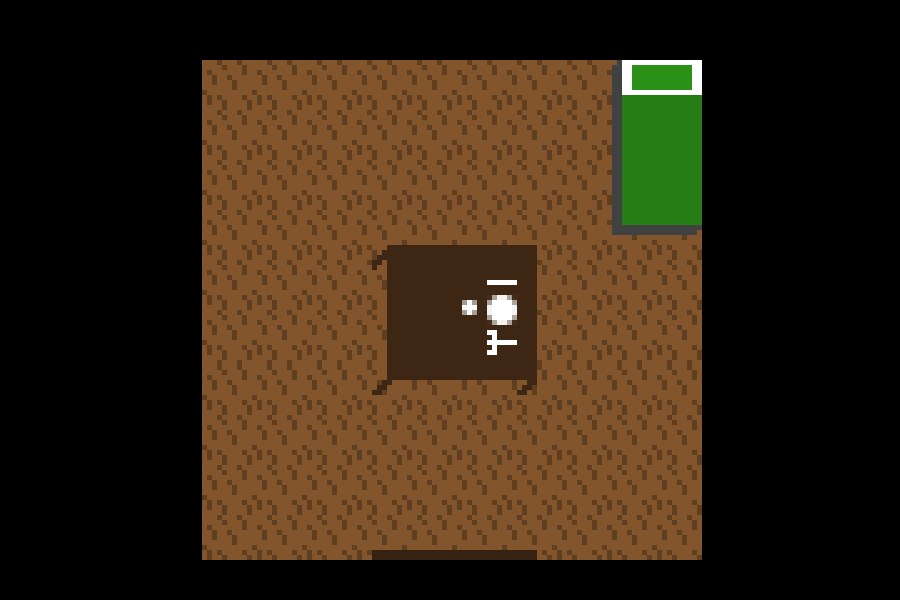
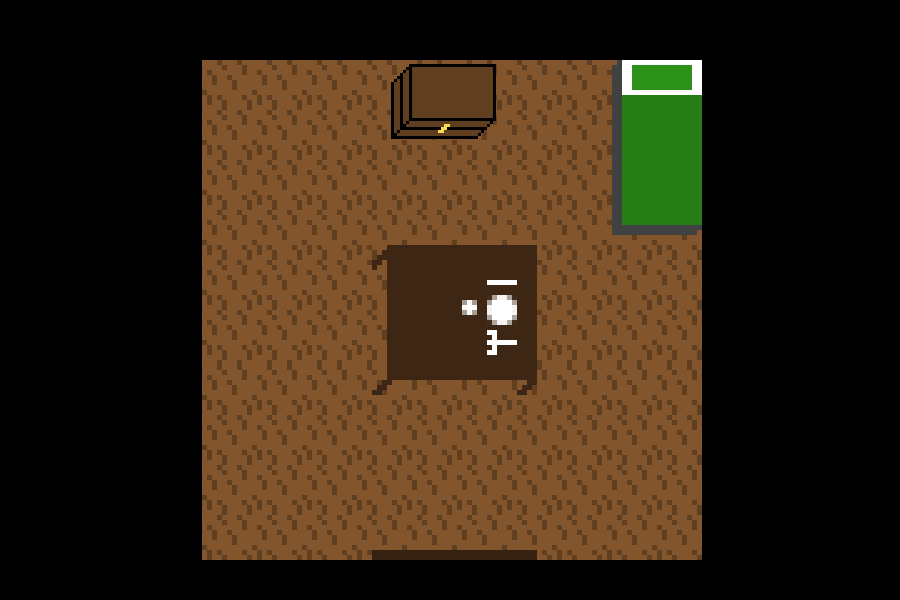
add of the chest in the map

Changed region(s): [[0.4356, 0.09, 0.56, 0.24]]

diff --git a/Code/map/map.py b/Code/map/map.py
@@ -80,17 +80,19 @@ class Bedroom() :
     def _create_map(self):
         table = pygame.transform.scale(self.object.invisible_wall, (130,135))
         bed = pygame.transform.scale(self.object.invisible_wall, (80,165))
+        chest = pygame.transform.scale(self.object.invisible_wall, (80,75))
         top_bordure = pygame.transform.scale(self.object.invisible_wall, (500,1))
         side_bordure = pygame.transform.scale(self.object.invisible_wall, (1,500))
         self.tile._add_solid_walls('table', 395, 235, table)
         self.tile._add_solid_walls('bed', 632, 60, bed)
+        self.tile._add_solid_walls('chest', 400, 30, chest)
         self.tile._add_solid_walls('top_bordure', 202,60, top_bordure)
         self.tile._add_solid_walls('bot_bordure', 202, 560, top_bordure)
         self.tile._add_solid_walls('left_bordure', 202,60, side_bordure)
         self.tile._add_solid_walls('right_bordure', 701,60, side_bordure)
 
         human = pygame.image.load("images/humain.png").convert_alpha()
-        self.tile._add_npc('Loris', human, 200, 100, "Vite! la paix entre les elfes et les nains est en danger. TU DOIS LES AIDER")
+        self.tile._add_npc('Loris', human, 200, 100, "Vite! La paix entre les elfes et les nains est en danger. TU DOIS LES AIDER")
 
     def _get_name_map(self) : 
         return self.name

diff --git a/Code/game.py b/Code/game.py
@@ -14,7 +14,7 @@ class Game :
         self.all_sprites = pygame.sprite.Group()
         self.inventory = Inventory()
         self.inventory._item_factory()
-        self.player = Player((500,150), "Test", self.all_sprites)
+        self.player = Player((650,320), "Test", self.all_sprites)
         self.interaction = Interaction(self.player)
         self.uitem = Usable_Item(None, "", "Rien", "", "Images/bombe_2.png")
         self.citem = Consumable_Item(None, "", "Rien", "", "Images/bombe_2.png")
@@ -93,6 +93,9 @@ class Game :
 
                             elif self.interaction.current_enemy.name == "buterflie":
                                 self.inventory._obtain_item(self.inventory._get_Item(7), self.screen)
+
+                            elif self.interaction.current_enemy.name == "dark_hero":
+                                print("Bravo, vous avez gagné !")
 
                         else : 
                             self.player.fight_entity._set_stat("life",self.player.fight_entity._get_max_life())

diff --git a/Code/player/interaction.py b/Code/player/interaction.py
@@ -118,7 +118,12 @@ class Interaction:
         self.interaction_rect = self.player.hitbox.copy()
         self.interaction_rect.inflate_ip(20, 20)
 
+    def _interract_with_chest(self) :
+        if 
+
     def _interact(self,enemy_group, npc_group, screen):
         self._update_interaction_rect()
         self._interact_npc(npc_group, screen)
         self._intercat_with_enemy(enemy_group)
+
+    
